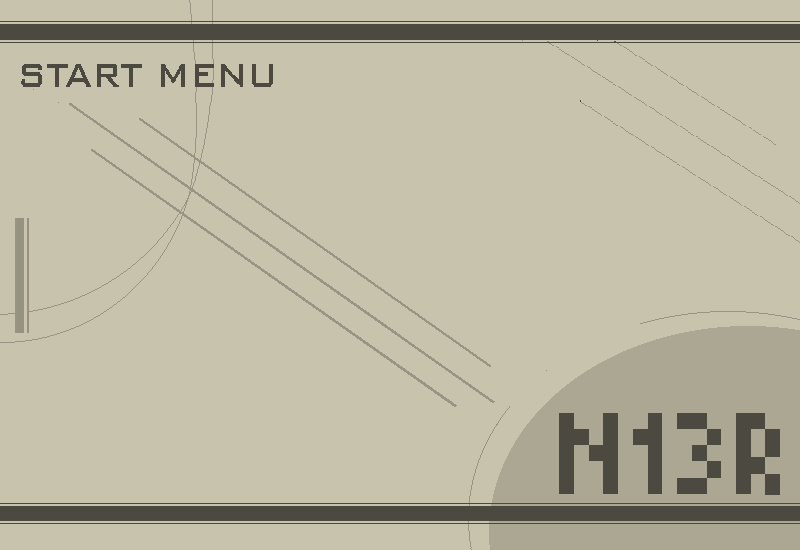
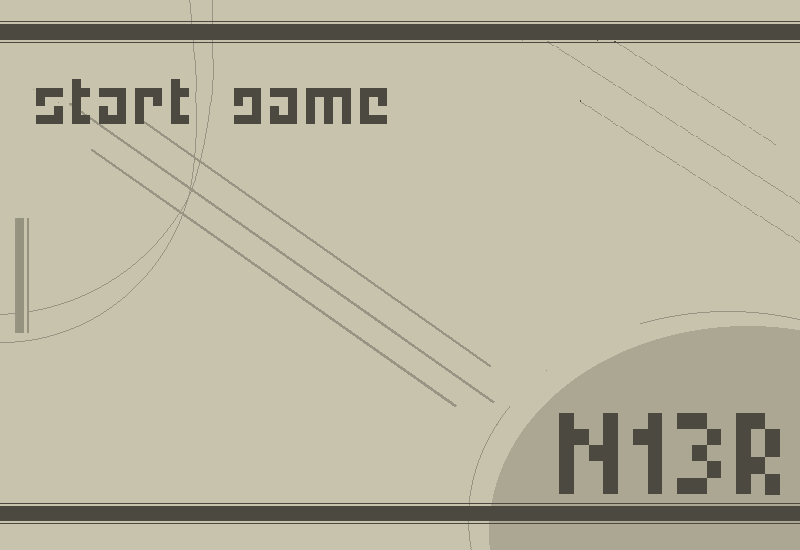
instruction scene

Changed region(s): [[0.0312, 0.0927, 0.5, 0.2473]]

diff --git a/main.js b/main.js
@@ -19,7 +19,7 @@ const config = {
         default: 'arcade' ,
          arcade: {
         gravity: { y: 500 },
-        debug: false
+        debug: true
     }   
     },
     
@@ -27,8 +27,8 @@ const config = {
         mode: Phaser.Scale.FIT,
         autoCenter: Phaser.Scale.CENTER_BOTH
     },
-    scene: [MenuScene,InstructionScene,BootScene,GameScene] 
-    //scene: [GameScene] 
+    //scene: [MenuScene,InstructionScene,BootScene,GameScene] 
+    scene: [GameScene] 
 };
 
 new Phaser.Game(config);

diff --git a/src/objects/enemy.js b/src/objects/enemy.js
@@ -18,6 +18,9 @@ export  class Enemy extends Phaser.Physics.Arcade.Sprite {
     this.setScale(this.walkScale); 
     this.y = 433;                  // place on ground
     this.body.setAllowGravity(false); // prevent falling
+    // Shrink hitbox to fit visible sprite
+    this.body.setSize(15, 60);   // width, height of actual visible part
+    this.body.setOffset(25, 5);  // shift hitbox inside the sprite (x, y)
 
 
     this.speed = 180

diff --git a/src/objects/player.js b/src/objects/player.js
@@ -84,7 +84,7 @@ export class Player extends Phaser.Physics.Arcade.Sprite {
 
         // Enable physics on the slash so it can detect enemies
         this.scene.physics.add.existing(slash);
-        slash.body.setSize(slash.width, slash.height); // match hitbox to sprite
+        slash.body.setSize(slash.width-30, slash.height); // match hitbox to sprite
         slash.body.allowGravity = false;
 
         // Overlap check with enemies

diff --git a/src/scenes/bootScene.js b/src/scenes/bootScene.js
@@ -62,7 +62,7 @@ export default class BootScene extends Phaser.Scene {
           if (charIndex < fullLine.length) {
             lineText.setText(lineText.text + fullLine[charIndex]);
             charIndex++;
-            this.time.delayedCall(10, typeChar); // speed of letters
+            this.time.delayedCall(30, typeChar); // speed of letters
           } else {
             y += 20; // move to next line
             i++;

diff --git a/src/scenes/instructionScene.js b/src/scenes/instructionScene.js
@@ -26,7 +26,7 @@ this.add.sprite(this.scale.width / 2, this.scale.height / 2, 'ui').play('instruc
 
     // Click anywhere to continue
     this.input.on('pointerdown', () => {
-      this.scene.start('GameScene'); 
+      this.scene.start('BootScene'); 
     });
   }
 }
